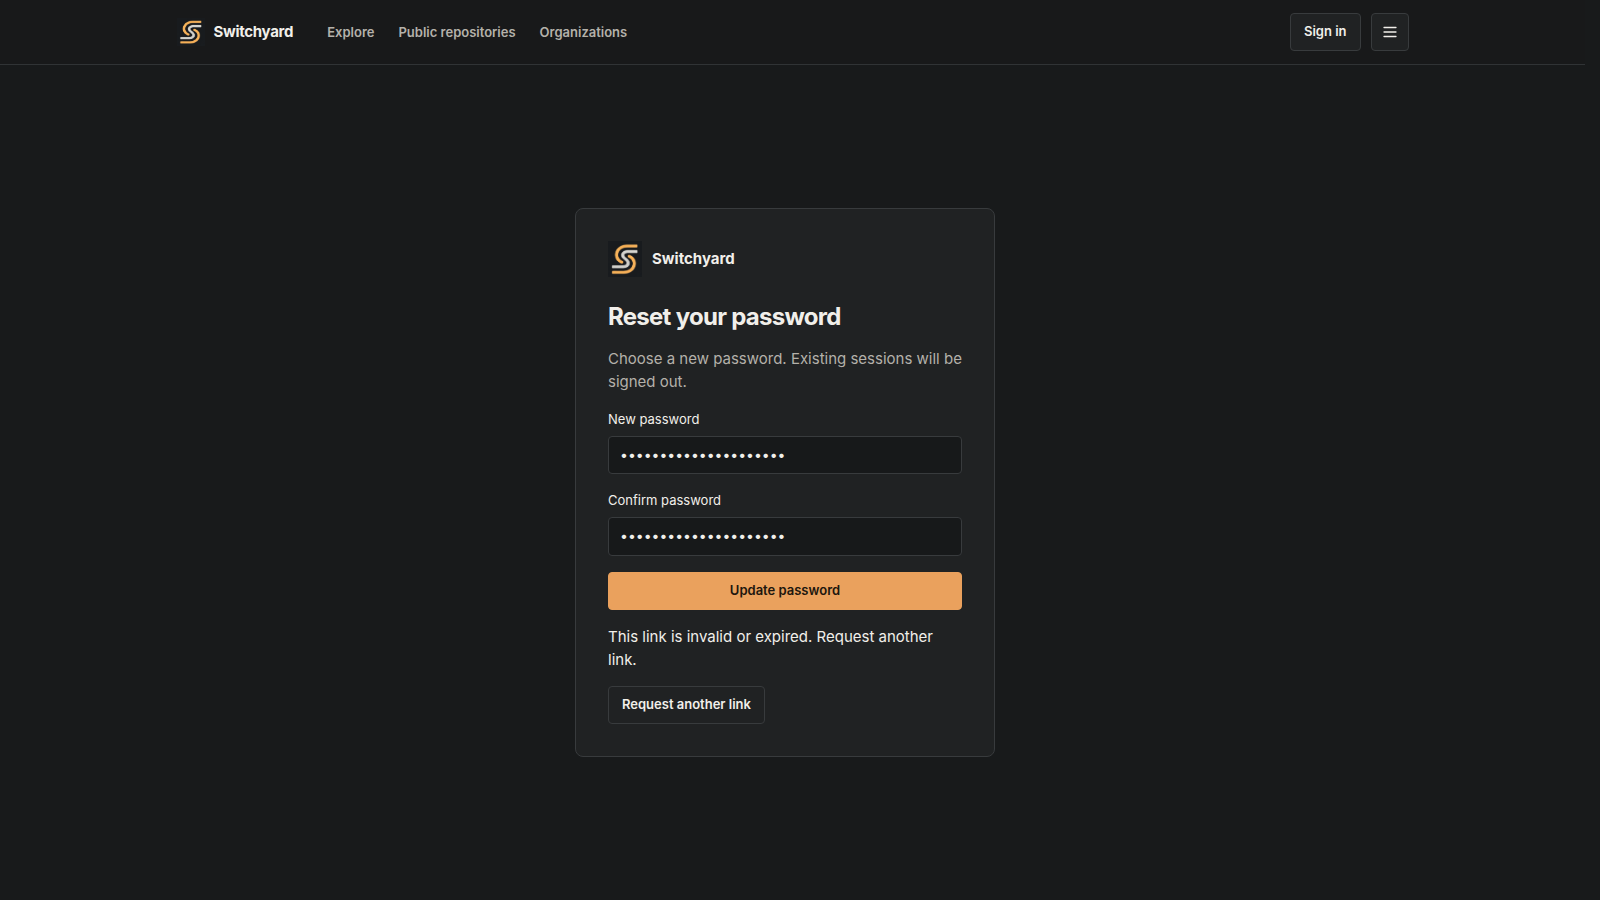
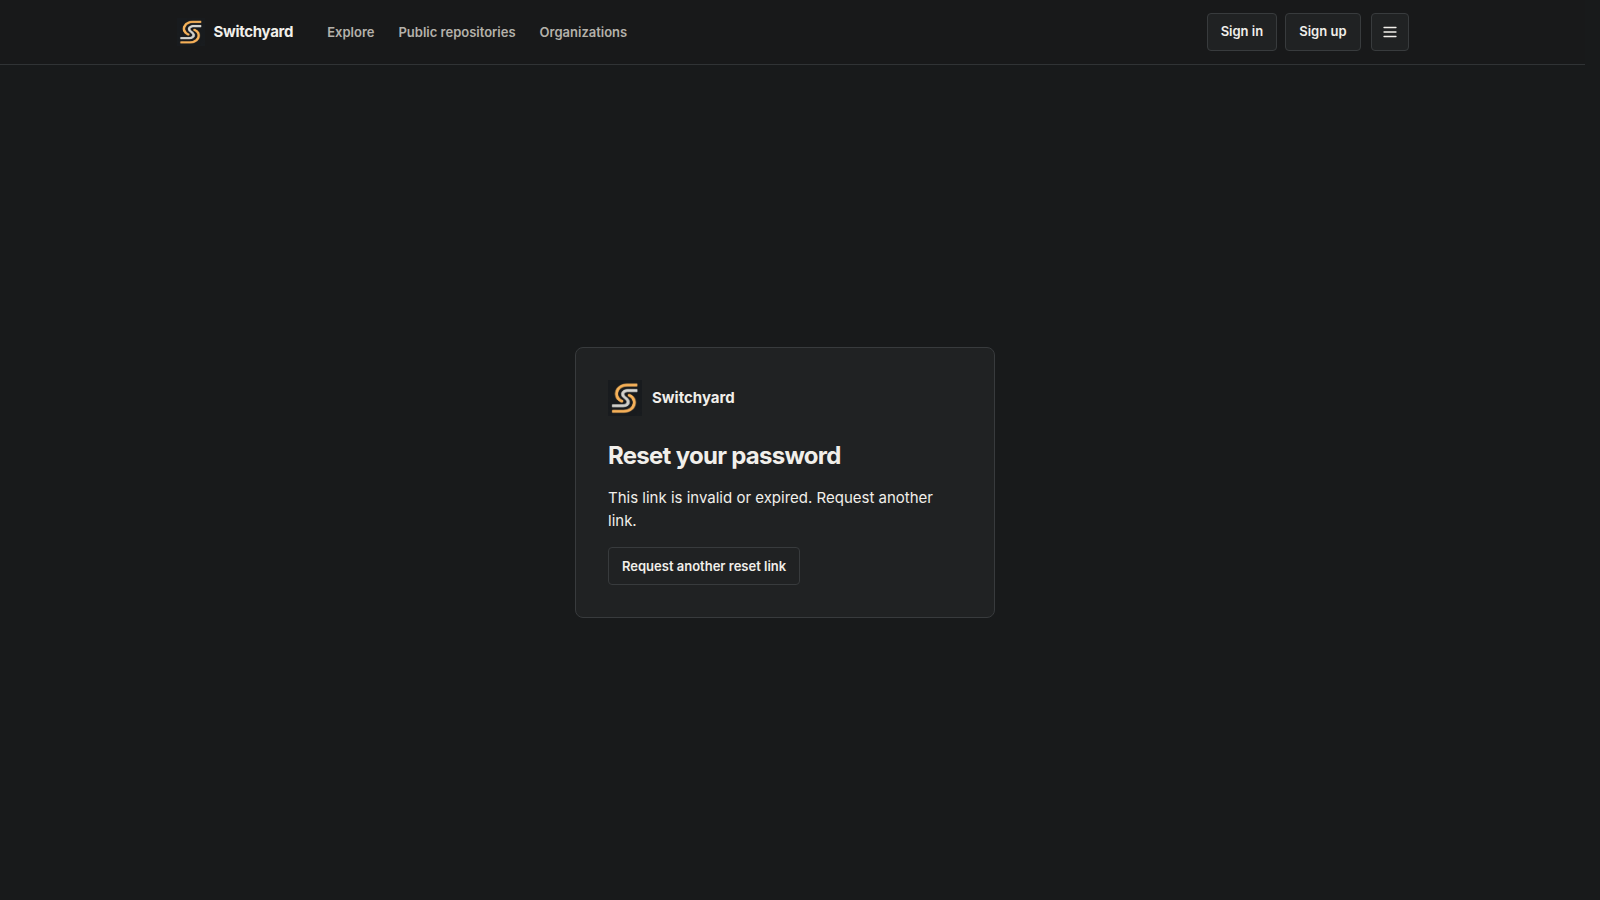
Record completed live mail and deployed UI acceptance checks

diff --git a/docs/operations/auth-hardening-report.md b/docs/operations/auth-hardening-report.md
@@ -1,27 +1,88 @@
-# Auth hardening acceptance report — 2026-10-05
+# Auth and repository UI acceptance report — 2026-10-06
 
-Implemented and deployed; real provider delivery is the remaining infrastructure
-prerequisite. Source has not been pushed, tagged or released.
+## A. Mailgun state
 
-| Item | Result |
-|---|---|
-| A. Trestle | Administrator/CSRF-protected generic collection account-token operation; atomic update/consume and minimal audit. Native Argon2id auth unchanged; actual Switchyard bcrypt identities preserved. |
-| B. Tokens | 256-bit CSPRNG, hash-only bounded account JSON slots, account/collection/purpose/email/password-state binding, expiry, latest-only, single-use. |
-| C. Verification | Signup issues link, automatic sign-in retained, mail failure preserves unverified account; private settings/resend; browser GET and explicit POST consumption. |
-| D. Reset | Email-only request with equivalent 202 response; new/confirm password; atomic Trestle password change; returns to sign-in. |
-| E. Sessions | Password-state change rejects every old session; login race cannot bind a validated old password to the new hash. No fresh reset session. Old rows may remain but cannot authenticate. |
-| F. Transport | One authenticated implicit-TLS SMTP adapter, TLS>=1.2/certificate verification, plain/HTML templates, deterministic fake. Production credentials absent. |
-| G. DNS | Existing registrar-forwarder SPF preserved. No DKIM/DMARC found; provider-specific sender records not configured. |
-| H. Limits | Mail IP10/email3/global100 per five minutes; existing consume/signup throttles. Verification24h (60s–48h), reset30m (60s–2h), configurable. |
-| I. Migration | Users stay usable/unverified; no fabricated email/timestamp. Trestle23→24 and Switchyard12→13 rehearsed and backed up. Missing-email legacy accounts need private administrator repair. |
-| J. UX | Four-field signup, settings status/resend, forgot discovery, safe invalid/reused links, immediate URL clearing. Desktop1600/mobile390 tested locally and deployed. |
-| K. Tests | Full build/tests/vet; affected race; atomic reset/verification, resend-vs-verify, expiry, rollback fault, latest/email/disable binding; portable restore; SMTP/MIME tests; real-Trestle captured-mail browser flows pass. |
-| L. Live verification | Trusted-backend issuance plus public signed-out consumption, state and reuse rejection pass. Real verification email delivery not certified. |
-| M. Live reset | Public consumption, old password/session rejection, new login/reuse rejection pass; disposable accounts cleaned. Real reset email delivery not certified. |
-| N. Limits | Standalone storage only for this adapter; replication fails closed. PostgreSQL test environment unavailable. Shared proxy peer budget, in-memory throttles, nondurable reset mail worker. Legacy email assignment and CLI recovery have no new self-service flow. Snapshot restores can revive post-snapshot-consumed tokens; documented incident invalidation is required. |
-| O. Deployment | https://switchyard.cx active on `2fb6cf6`; Trestle implementation `aebb5a4`. Consistent backup `/opt/cp0/switchyard/before-auth-20261005-105212`. Pages, Proposal, cookie isolation and signed-out regressions pass. |
-| P. Local commits | Trestle `aebb5a4` implementation, `6edad83` acceptance tests; Switchyard `b2bb0d9` implementation/UI/tests, `2edbedf` live certification and `2fb6cf6` final verified-status correction; subsequent documentation checkpoint. |
-| Q. Readiness | Feasible implementation/certification complete. Configure authorized SMTP sender plus SPF/DKIM/DMARC, then certify real verification/reset emails before claiming email recovery production-ready. No push/tag/release. |
+Active on Linode: authenticated Mailgun US SMTP, port 2525, required STARTTLS,
+verified certificates and TLS 1.2 or newer. Sender: Switchyard
+<no-reply@mg.switchyard.cx>. SPF, DKIM and monitoring DMARC are published;
+existing apex mail routing is preserved. The user confirmed inbox delivery,
+sender identity, expiry copy and mobile email layout. Recipient authentication
+headers were not independently inspected. Credentials are confined to the
+protected host environment and are absent from evidence.
 
-Evidence: `docs/evidence/auth-hardening/`. Operational setup, routes, privacy,
-limits, failure handling and rollback: `docs/operations/account-recovery.md`.
+## B–F. Link certification
+
+- Verification resend: the user confirmed the old link was rejected and the new
+  link verified the account. Verification persistence was checked through the API.
+- Verification expiry: controlled-clock Trestle tests pass, including expired
+  tokens and transactional rollback; no claim of waiting 24 hours for real mail.
+- Verification reuse: the user confirmed the consumed link was rejected.
+- Reset expiry: controlled-clock Trestle tests pass; no claim of waiting 30 minutes
+  for a live email to expire.
+- Reset reuse: the user confirmed rejection and successful login with the first
+  replacement password. Live API checks reject the old password and session.
+
+## G. Auth UI fixes
+
+Signed-out headers now show Sign in and Sign up. Signup retains exactly Username,
+Email, Password and Confirm password. Recovery links are checked on arrival,
+before the form becomes visible. This read-only validation does not consume the
+link, change the account version or produce an account audit mutation. Expired,
+superseded and consumed links show the invalid-link message immediately. Submit
+still validates atomically at consumption. Successful reset hides both the form
+and its introductory instructions and offers sign-in with the new password.
+Fragment tokens are immediately removed from the URL; responses retain no-store
+and no-referrer. Known/unknown/disabled reset requests have equivalent responses
+and a minimum response time; deterministic tests cover provider failure too.
+
+## H. Screenshot-driven fixes
+
+| Route | Problem / root cause | Fix / regression |
+|---|---|---|
+| Signed-out pages | Only one auth header action | Adjacent signup action; tested at six widths |
+| Repository Code | Star occupied a separate heading row | Star next to Go to file in the toolbar |
+| Work, Proposals, Pull requests, Actions, Commits, Releases, Pages, Settings | Page-specific headings omitted or diverged from repository navigation | Shared owner avatar, owner/repo breadcrumb, visibility badge, section label and all nine tabs; each section checked |
+| Proposals | Loading class remained after an empty result | Settled empty state has no spinner; grouped header actions; spaced footer with zero-result pagination hidden |
+| Actions | Partial tabs and plain visibility text | Shared full navigation and visibility badge |
+| Pages | Loading class remained after empty deployments | Settled empty state has no spinner; irrelevant pagination hidden |
+| Repository Settings | Generic shell sizing separated header and content vertically | Explicit header/body layout; content begins beneath navigation; desktop/mobile geometry assertions |
+
+## I. Browser and code regression
+
+60 repository/header checks passed at 1600, 1280, 1024, 768, 430 and 390 pixels,
+using local UI assets, live public read APIs and isolated maintainer fixtures.
+They check navigation, active tab, document overflow, signup discovery, settled
+empty states and settings geometry. Desktop/mobile screenshots are in
+`docs/evidence/ui-shell-c48/`.
+
+Real disposable Trestle plus captured-mail desktop/mobile browser flows pass:
+signup, resend supersession, verification, reset confirmation, reset, session
+revocation, new-password login and link reuse rejected on arrival. Full Switchyard
+Go tests and affected vet pass; Trestle account-token race tests and vet pass.
+Real mail delivery is separately certified by the user; captured mail alone is
+not delivery evidence.
+
+## J–K. Checkpoints
+
+Local Trestle: `4ceac7a` (non-consuming link validation).
+Local Switchyard: `3c66d31` (Mailgun), `b29f45b` (arrival validation/reset copy),
+`d462e69` (repository UI). Linode application checkpoint: `d462e69`; Trestle
+checkpoint: `4ceac7a`. Documentation checkpoints may follow without changing
+runtime code. No source was pushed, tagged or released.
+
+## L. Remaining limitations
+
+The token adapter supports standalone collection storage and fails closed for
+replication. PostgreSQL runtime certification was unavailable. Mail throttles
+are in memory and the reset-mail worker is nondurable: outage/crash requires a
+new request. Existing missing-email accounts require private administrator
+repair. Verification remains informational. DMARC is monitoring policy, not
+an enforcement rollout. Snapshot restoration can revive post-snapshot tokens;
+follow the documented incident invalidation procedure. Maintainer layout tests
+use isolated fixtures and do not claim live settings-write certification.
+
+## M. Readiness
+
+The requested UI and real mail checks are complete. Final deployed browser checks
+are recorded in `docs/evidence/auth-hardening/live-browser.json`. **READY TO PUSH** for this scoped campaign. Deployed desktop/mobile auth checks
+passed. This report does not authorize or perform a push.
